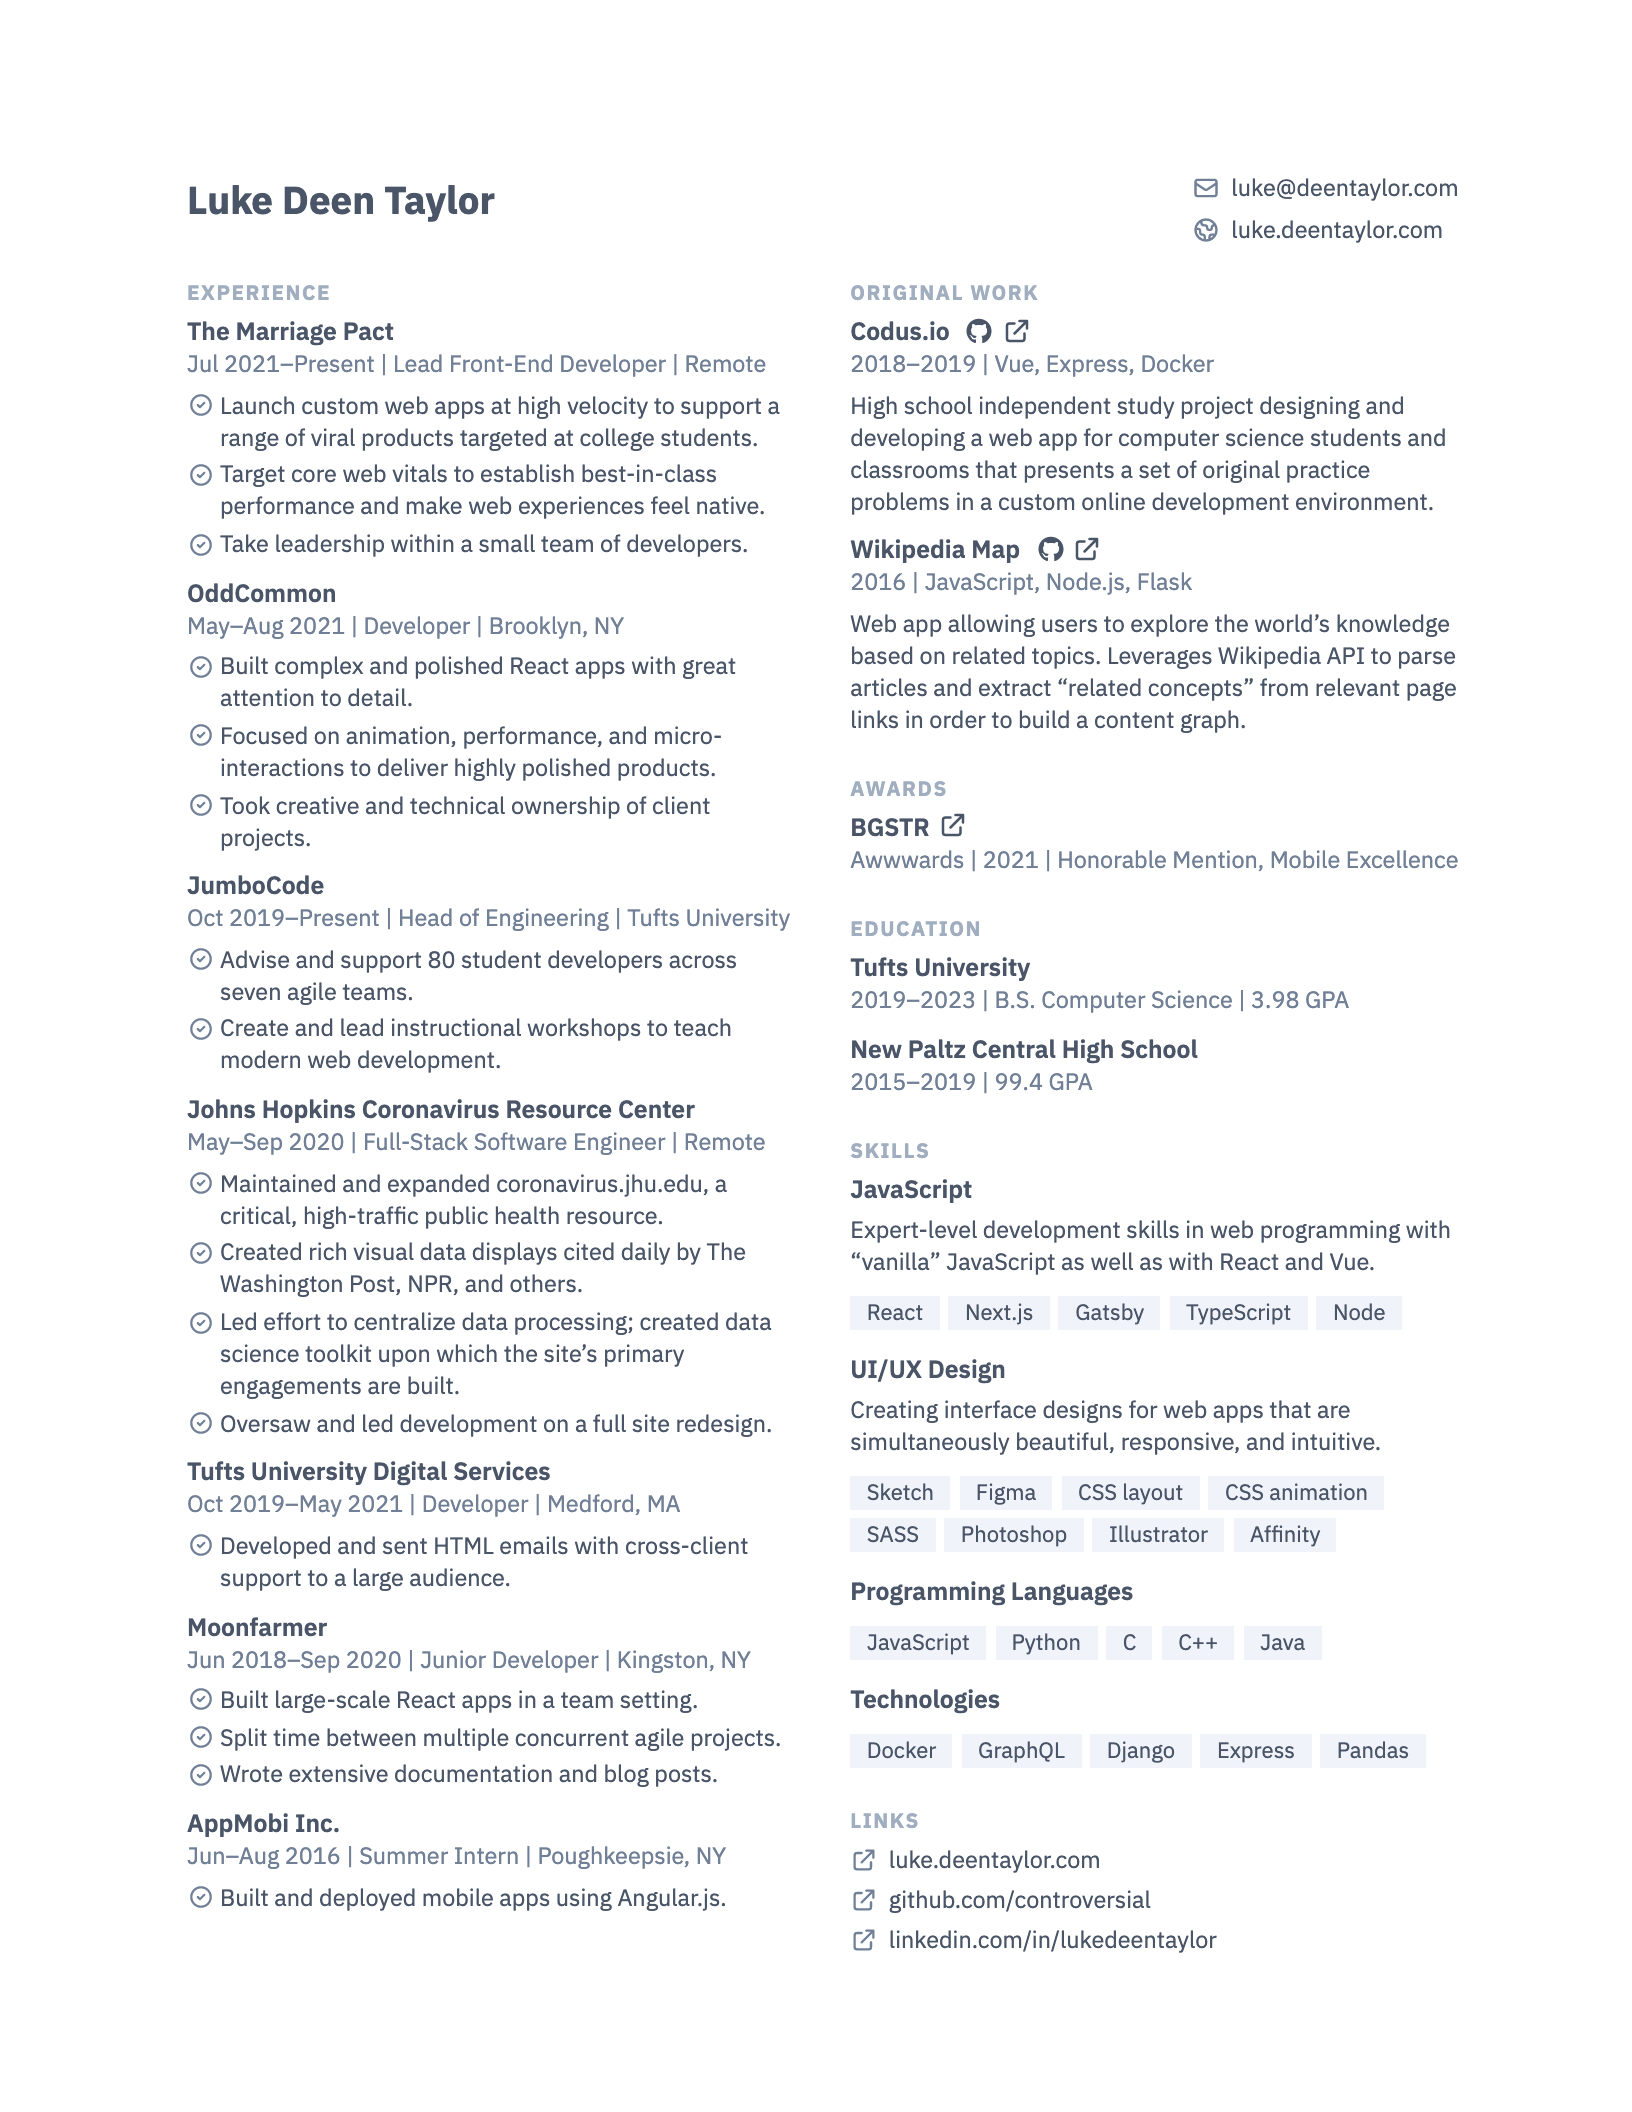
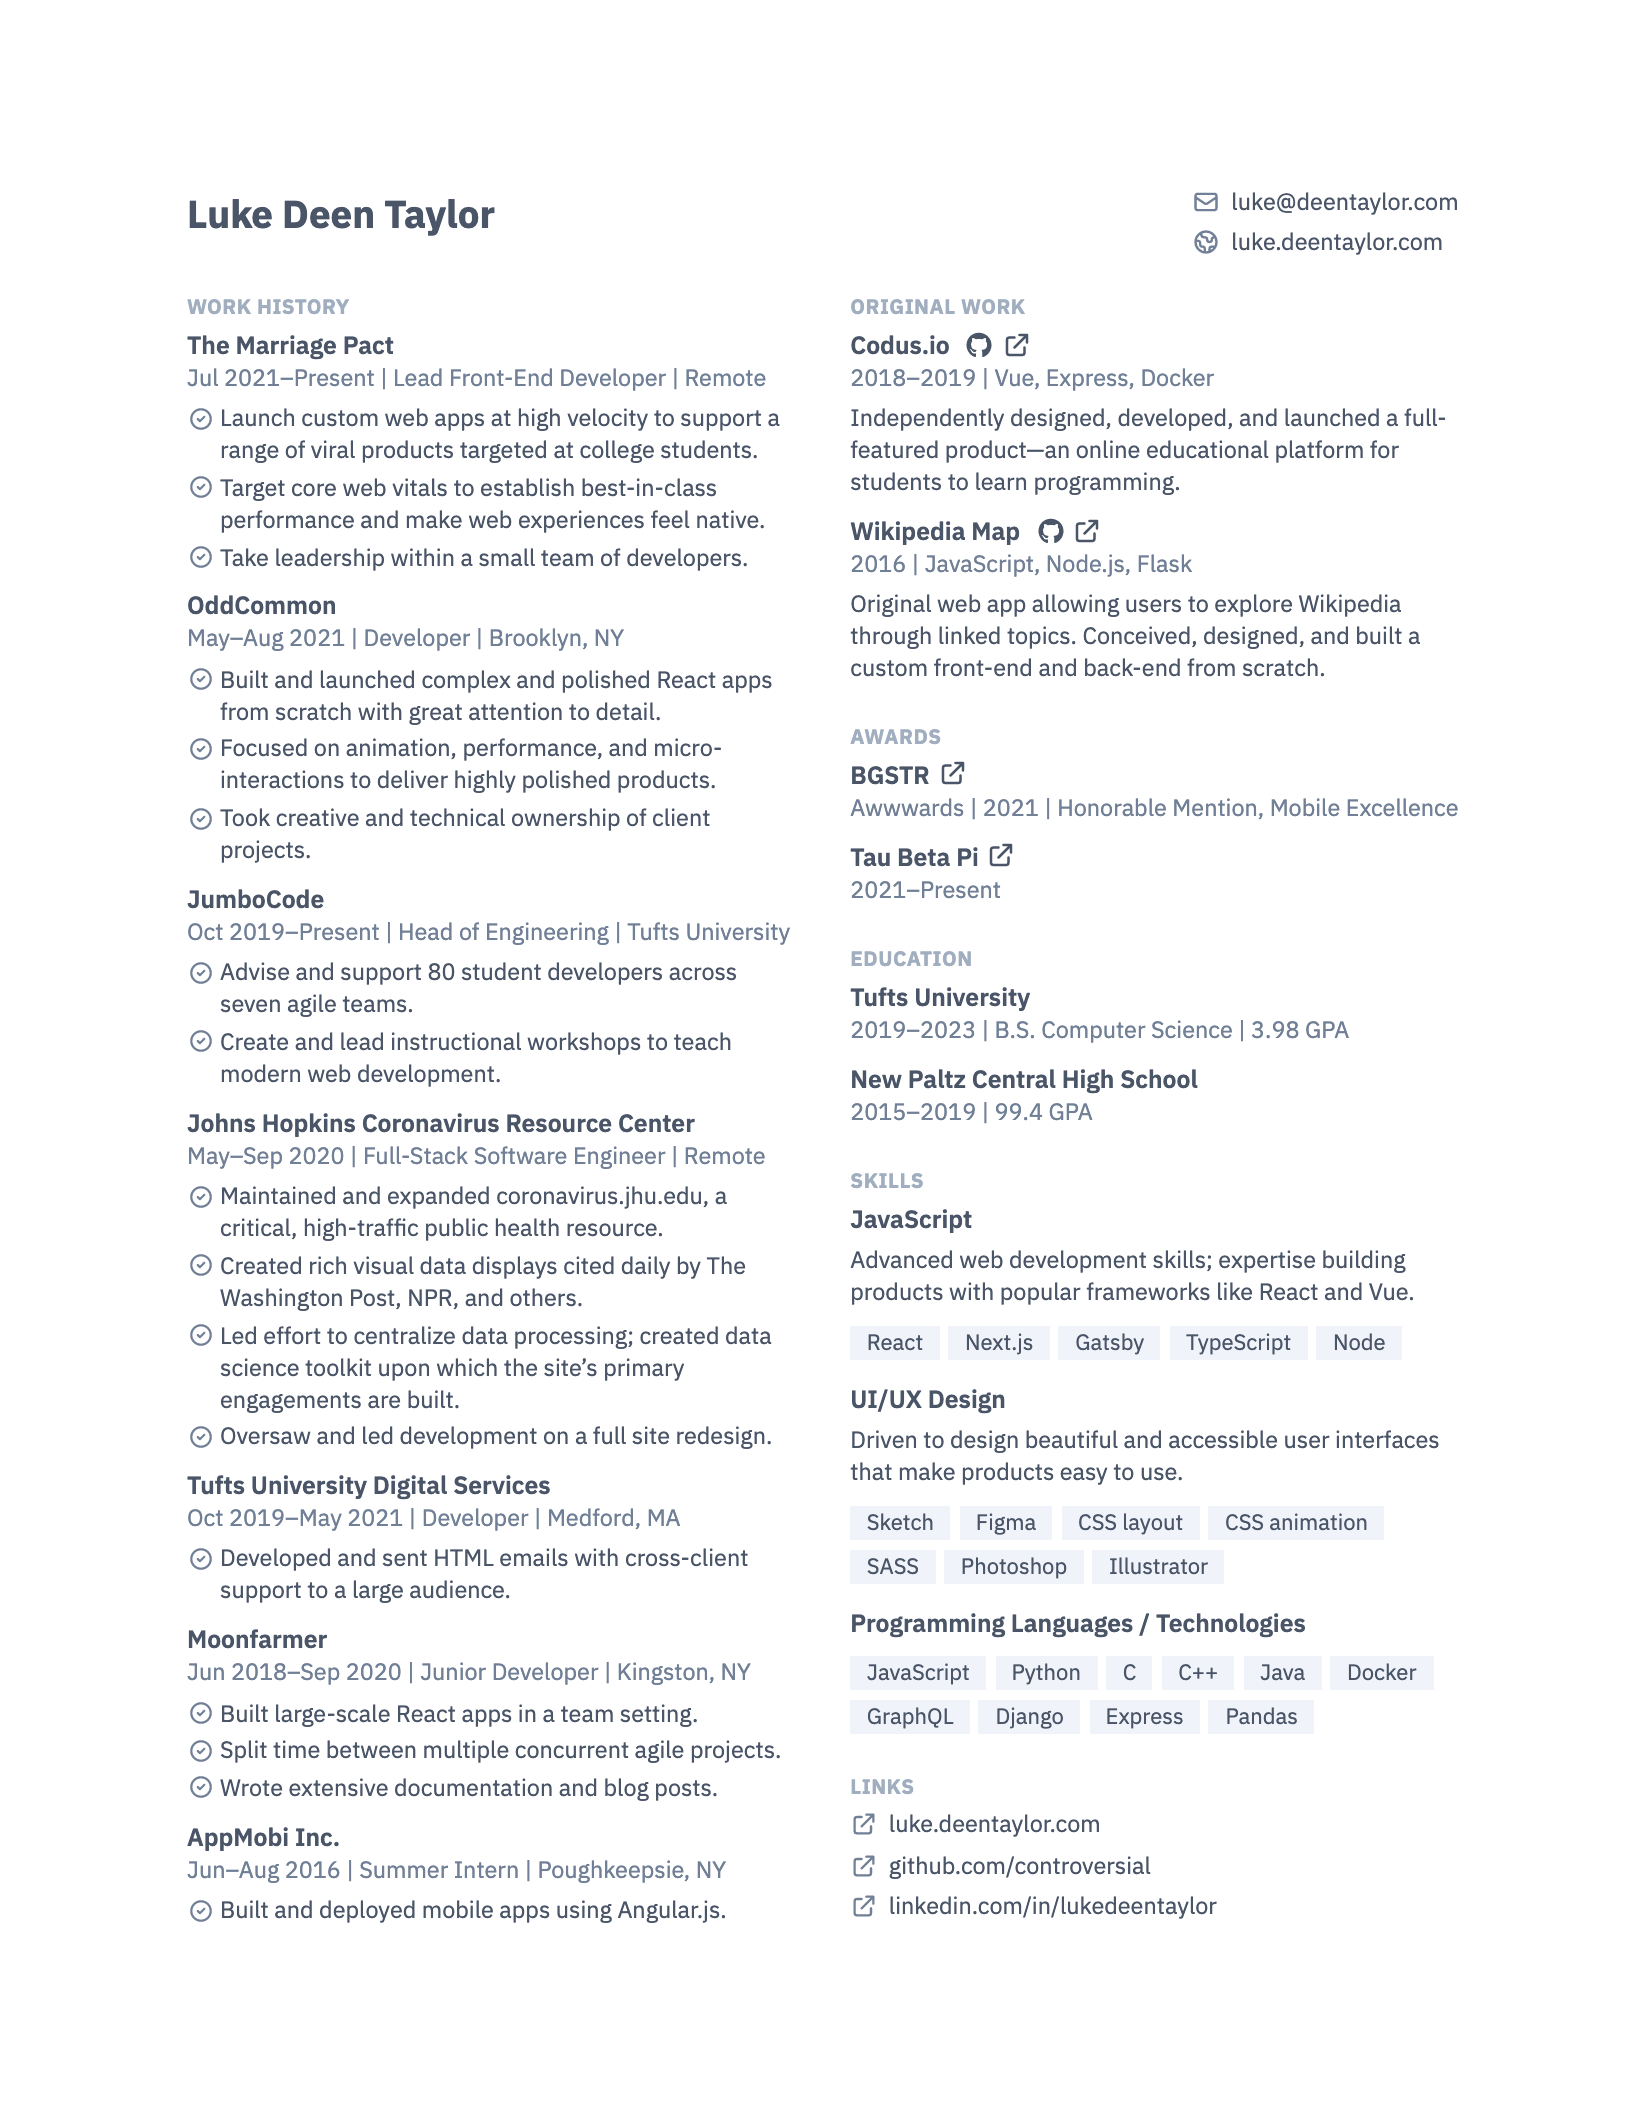
Better machine readability & some keyword packing

diff --git a/src/content.js b/src/content.js
@@ -2,6 +2,10 @@
 const email = 'luke@deentaylor.com';
 
 export default {
+  // summary: `
+  //   Award-winning creative full-stack developer with a passion for applying technology to create
+  //   beautiful and effective products.
+  // `,
   about: `
     I’ve been interested in creating with code since my first LEGO robotics projects as a little
     kid. I picked up Python in middle school, then turned to the web to share my creations with
@@ -34,7 +38,7 @@ export default {
       startDate: new Date('2021-05-17'),
       endDate: new Date('2021-08-31'),
       tasks: [
-        'Built complex and polished React apps with great attention to detail.',
+        'Built and launched complex and polished React apps from scratch with great attention to detail.',
         'Focused on animation, performance, and micro-interactions to deliver highly polished products.',
         'Took creative and technical ownership of client projects.',
       ],
@@ -68,9 +72,7 @@ export default {
       location: 'Medford, MA',
       startDate: new Date('2019-10-07'),
       endDate: new Date('2021-05-01'),
-      tasks: [
-        'Developed and sent HTML emails with cross-client support to a large audience.',
-      ],
+      tasks: ['Developed and sent HTML emails with cross-client support to a large audience.'],
     },
     {
       employer: 'Moonfarmer',
@@ -130,9 +132,8 @@ export default {
       endDate: new Date('2019-01-01'),
       tags: ['Vue', 'Express', 'Docker'],
       description: `
-        High school independent study project designing and developing a web app for computer
-        science students and classrooms that presents a set of original practice problems in a
-        custom online development environment.
+        Independently designed, developed, and launched a full-featured product—an online
+        educational platform for students to learn programming.
       `,
     },
     // {
@@ -152,9 +153,8 @@ export default {
       endDate: new Date('2016-12-31'),
       tags: ['JavaScript', 'Node.js', 'Flask'],
       description: `
-        Web app allowing users to explore the world’s knowledge based on related topics.
-        Leverages Wikipedia API to parse articles and extract “related concepts” from relevant page
-        links in order to build a content graph.
+        Original web app allowing users to explore Wikipedia through linked topics. Conceived,
+        designed, and built a custom front-end and back-end from scratch.
       `,
     },
     // {
@@ -188,30 +188,28 @@ export default {
     {
       title: 'JavaScript',
       description: `
-        Expert-level development skills in web programming with “vanilla” JavaScript as well as with
-        React and Vue.
+        Advanced web development skills; expertise building products with popular frameworks
+        like React and Vue.
       `,
       tags: ['React', 'Next.js', 'Gatsby', 'TypeScript', 'Node'],
     },
     {
       title: 'UI/UX Design',
       description: `
-        Creating interface designs for web apps that are simultaneously beautiful, responsive, and
-        intuitive.
+        Driven to design beautiful and accessible user interfaces that make products easy to use.
       `,
       // prettier-ignore
       tags: [
-        'Sketch', 'Figma', 'CSS layout', 'CSS animation', 'SASS', 'Photoshop', 'Illustrator', 'Affinity',
+        'Sketch', 'Figma', 'CSS layout', 'CSS animation', 'SASS', 'Photoshop', 'Illustrator',
       ],
     },
     {
-      title: 'Programming Languages',
+      title: 'Programming Languages / Technologies',
       // prettier-ignore
-      tags: ['JavaScript', 'Python', 'C', 'C++', 'Java'],
-    },
-    {
-      title: 'Technologies',
-      tags: ['Docker', 'GraphQL', 'Django', 'Express', 'Pandas'],
+      tags: [
+        'JavaScript', 'Python', 'C', 'C++', 'Java', 'Docker', 'GraphQL', 'Django', 'Express',
+        'Pandas',
+      ],
     },
   ],
 

diff --git a/src/styles.scss b/src/styles.scss
@@ -65,7 +65,7 @@ h2 {
   font-weight: 700;
   color: var(--gray-light);
   text-transform: uppercase;
-  letter-spacing: .075em;
+  letter-spacing: .025em;
   margin: 0 0 0.35rem;
 }
 h3 {
